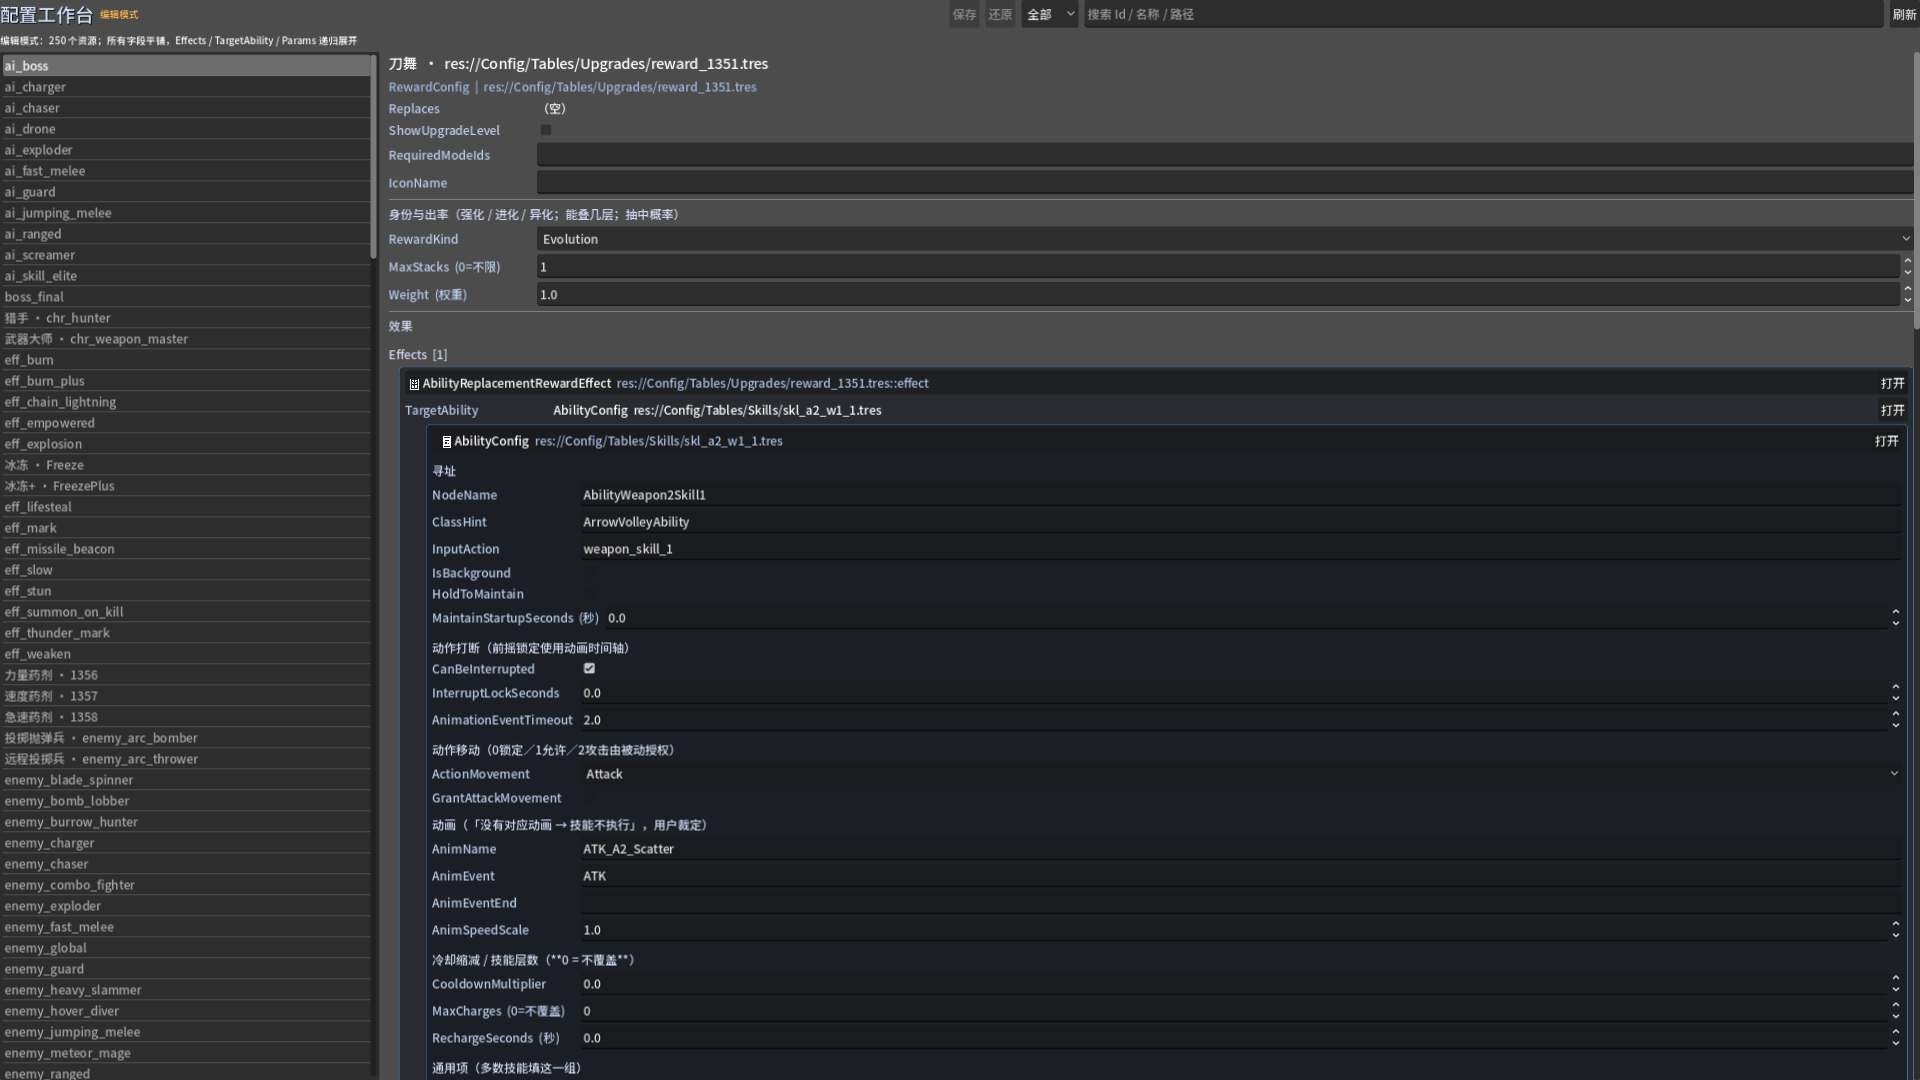
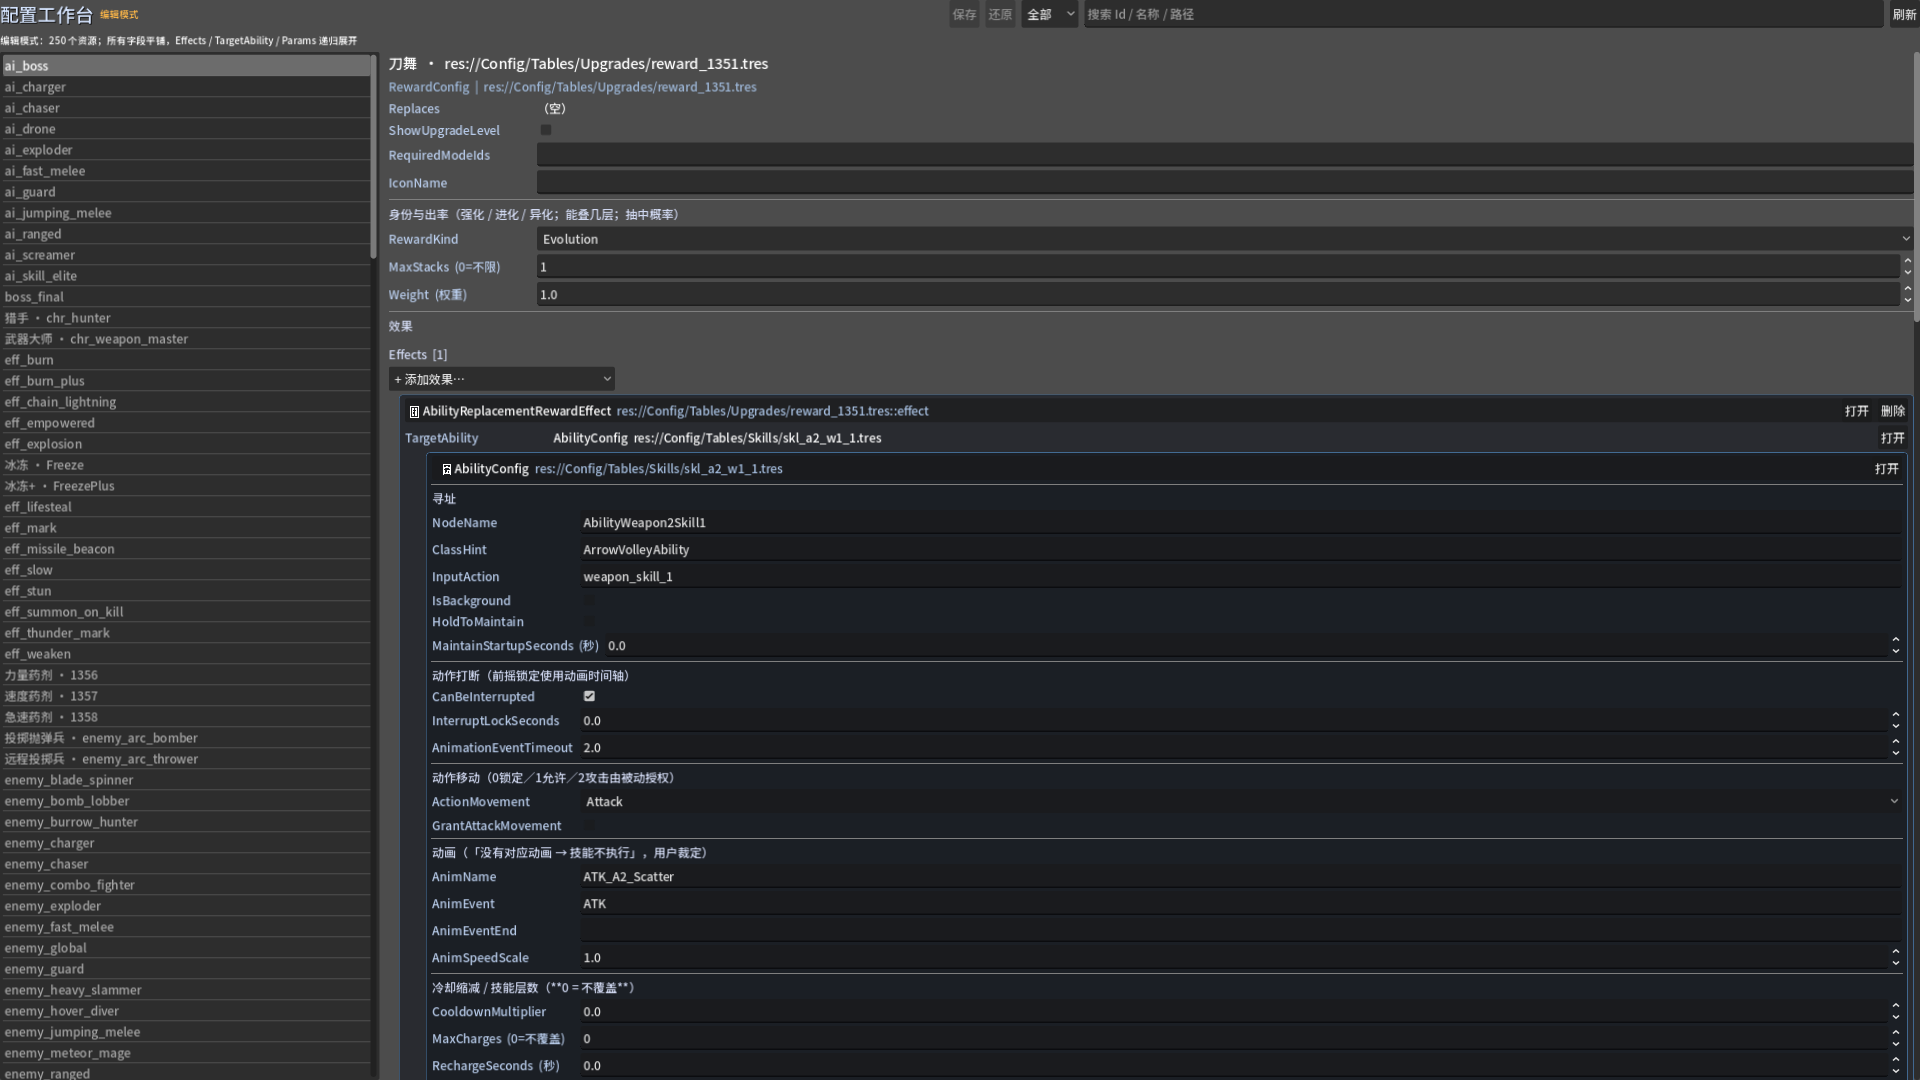
feat: add array structure editing to config workbench

Changed region(s): [[0.1875, 0.3361, 1.0, 0.825], [0.2188, 0.8556, 0.3438, 1.0]]

diff --git a/docs/reviews/20261101/config-workbench-prototype.md b/docs/reviews/20261101/config-workbench-prototype.md
@@ -1,4 +1,4 @@
-# 配置工作台 0.3：平铺编辑 + 字段提示
+# 配置工作台 0.4：平铺编辑 + 数组结构编辑
 
 2026-11-01。按“先做平铺原型，再接编辑”的路线落地；`.tres` 仍是唯一数据源。
 
@@ -24,6 +24,8 @@
   - `ParamEntry` 的 Key、值、说明可编辑；**值类型只读显示**（Float/Int/Bool/String/String[]），
     避免在编辑器里把消费方约定的 Variant 类型改坏；
   - 嵌套 Effect / TargetAbility / 内嵌子资源字段可编辑；
+  - `Effects` 可“添加效果…”（按 RewardEffects 脚本类型）和删除；
+  - `Params / AttackParams / HandlerParams` 可“+ 添加参数”和逐条删除；
   - 保存按 `_dirty` 里的真实 Resource 写回，避免“路径重新 load 出另一份默认值”；
   - 未保存计数、保存、还原；Ctrl+S / Ctrl+R。
 - `ParamEntry` 专用卡：
@@ -49,12 +51,12 @@
 - `ParamEntry.Note` 已清洗 65 条旧说明：172 条 ParamEntry Note 中，旧变更/文档口吻的
   `★|文档|第…轮|Jxx|验收|修复|用户|当前` 命中数从 65 降到 **0**；全部改为“用途 + 单位/范围/例外”。
 - 常用字段已加单位/范围提示（MaxHealth 点、Cooldown 秒、MaxStacks 0=不限等）；未覆盖全部字段。
-- 数组本身（Effects 增删、Skills 增删、字符串数组逐项）未做结构编辑；字段值可改。
+- `Skills` / `ConvertedRewards` 等外部资源数组仍只显示“打开”，未做结构增删。
 - 未接撤销（Ctrl+Z）；目前是保存/还原。
 - 未做批量编辑；ResourceTable 仍可用于多行数值对比。
 
 ## 下一步建议
 
-1. 接撤销、数组增删、外部资源保存确认。
+1. 接撤销、外部资源保存确认。
 2. 继续补冷门字段的单位/范围与字段级说明。
 3. 用工作台逐项复看 172 条 Note 的语义，而不是只看格式。
